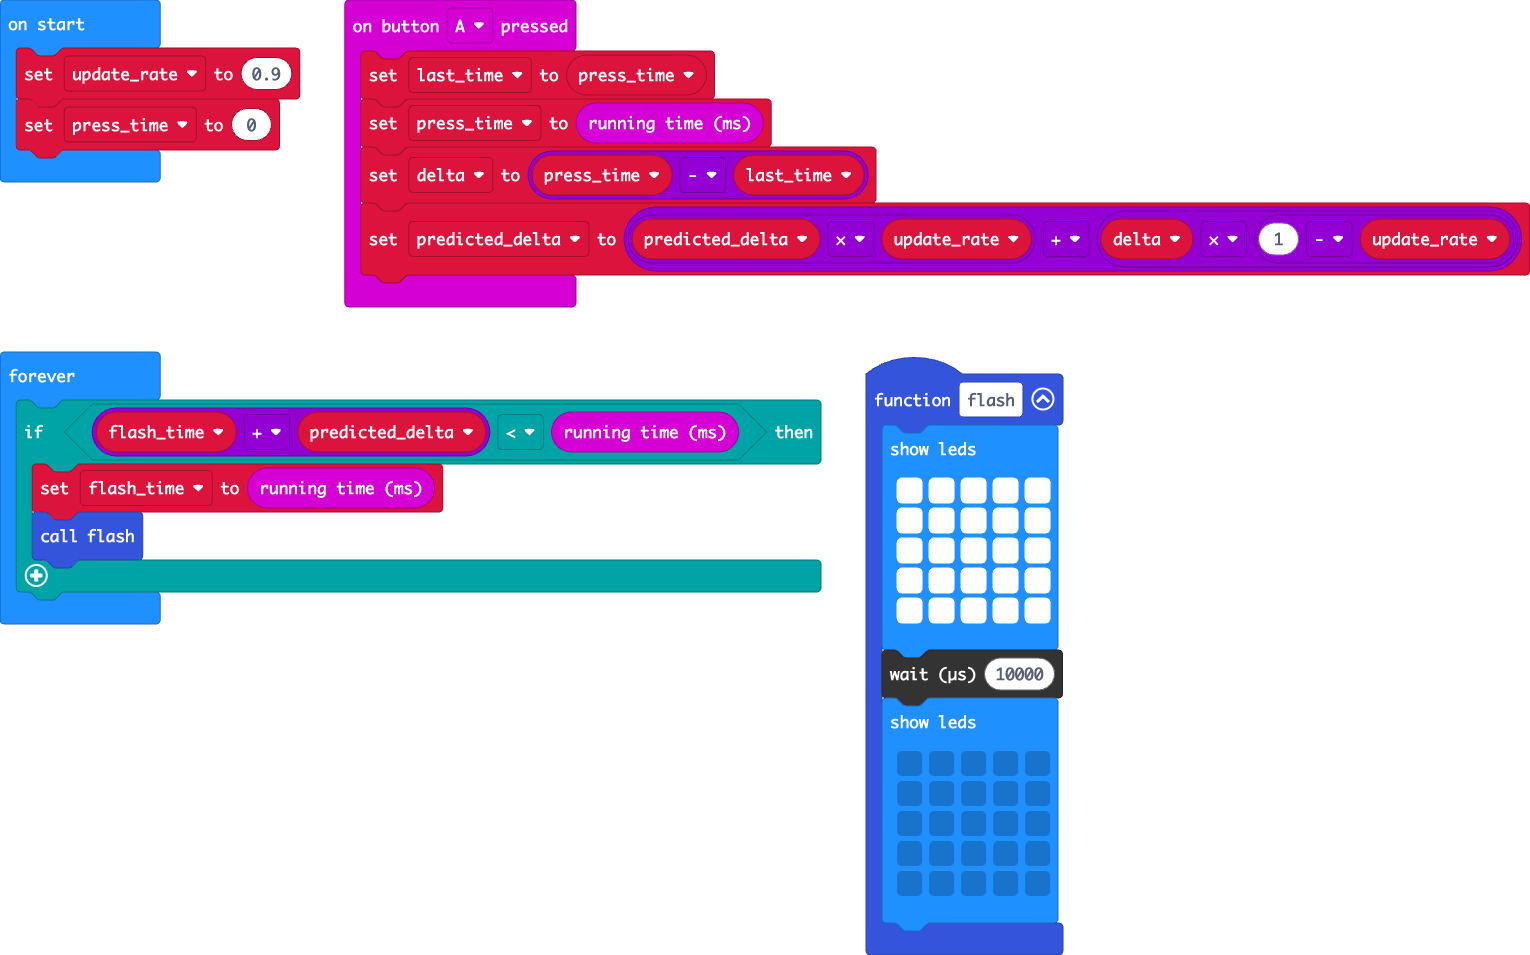
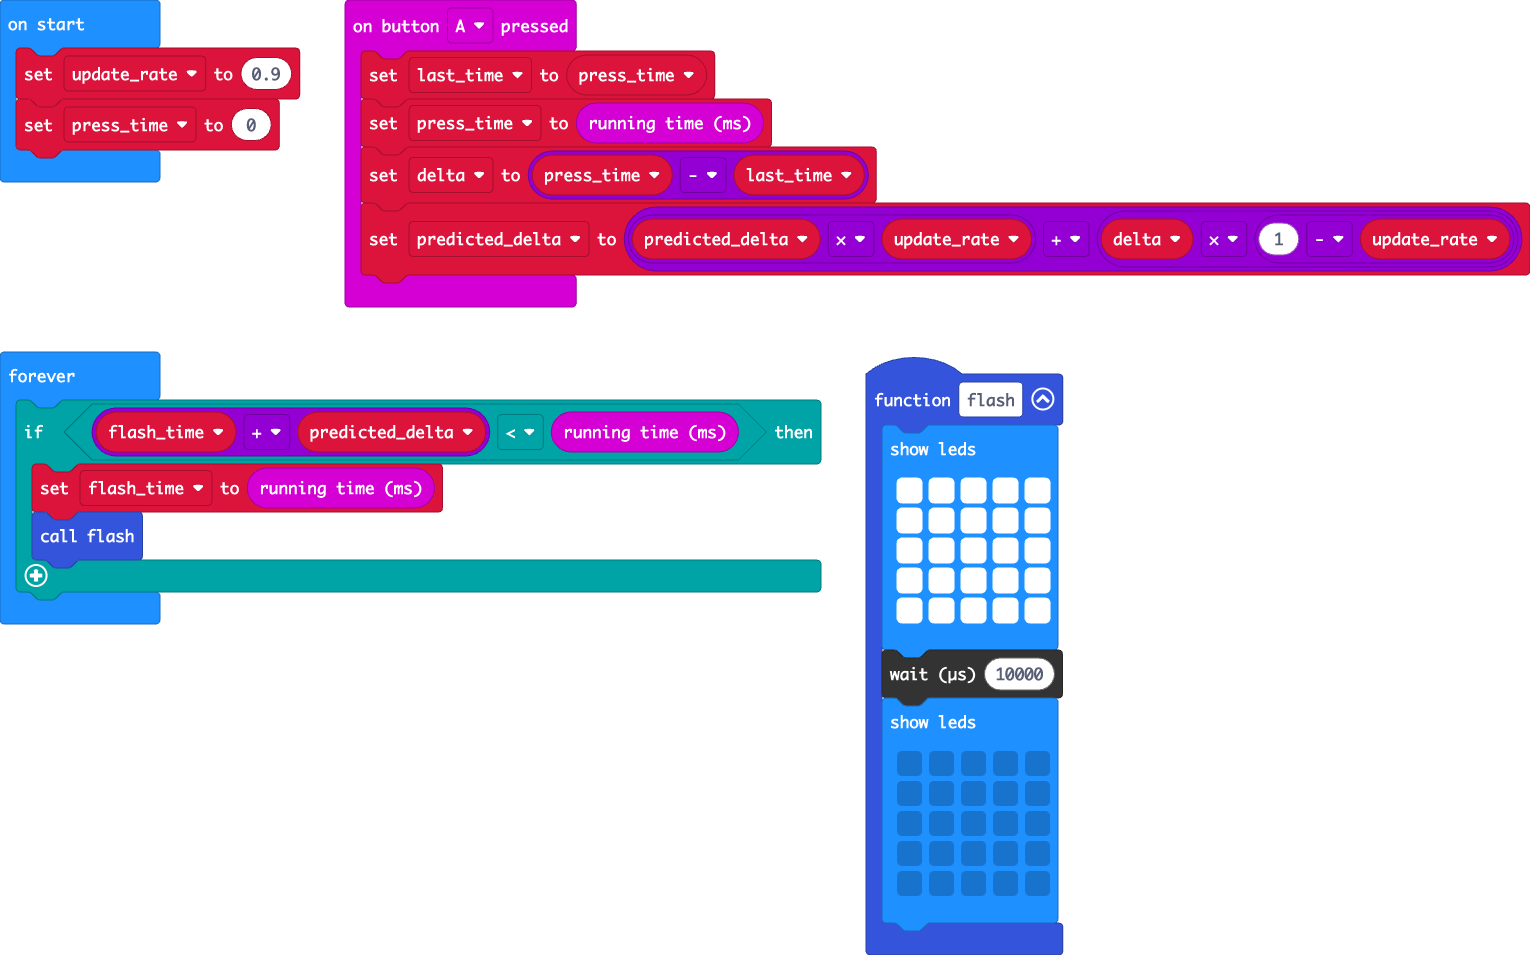
Update pxt.json, main.blocks, main.ts

Changed region(s): [[0.5837, 0.2429, 0.6144, 0.2733]]

diff --git a/main.ts b/main.ts
@@ -2,7 +2,7 @@ input.onButtonPressed(Button.A, function () {
     last_time = press_time
     press_time = input.runningTime()
     delta = press_time - last_time
-    predicted_delta = predicted_delta * update_rate + delta * (1 - update_rate)
+    predicted_delta = delta  * update_rate + predicted_delta * (1 - update_rate)
 })
 function flash () {
     basic.showLeds(`
